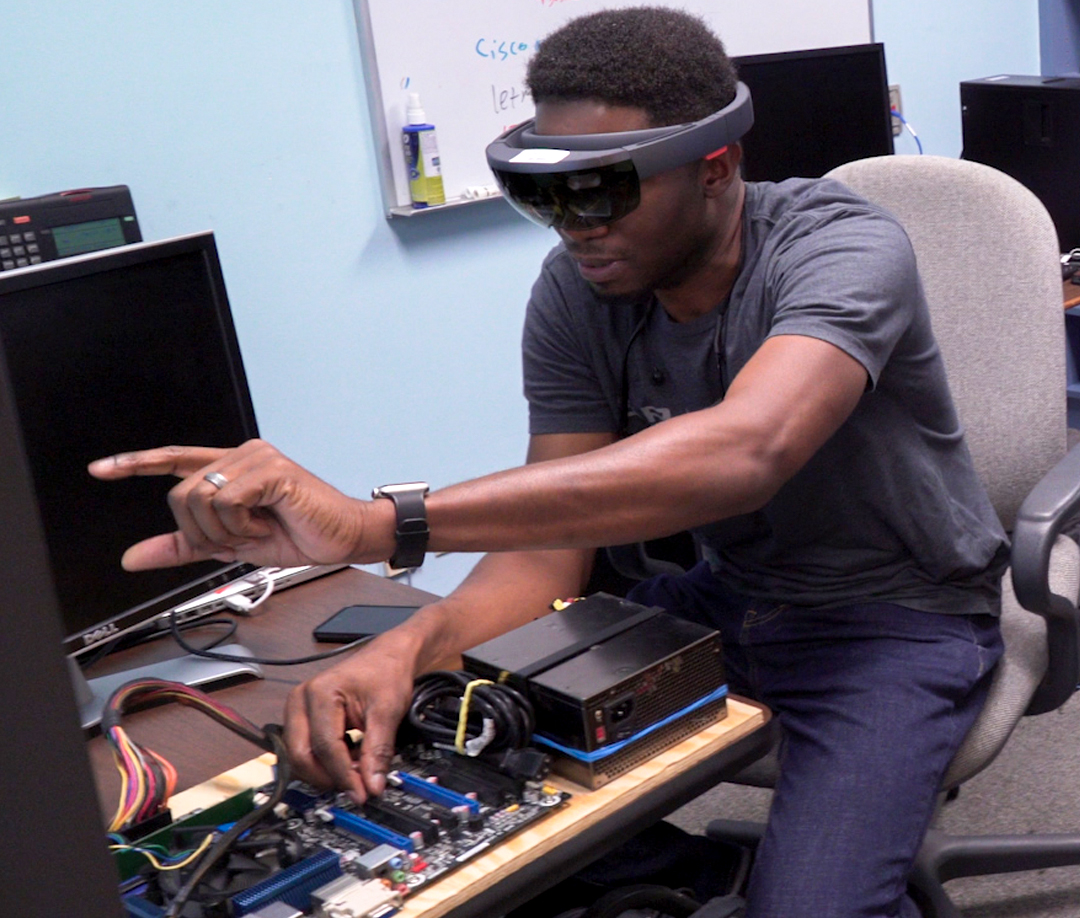
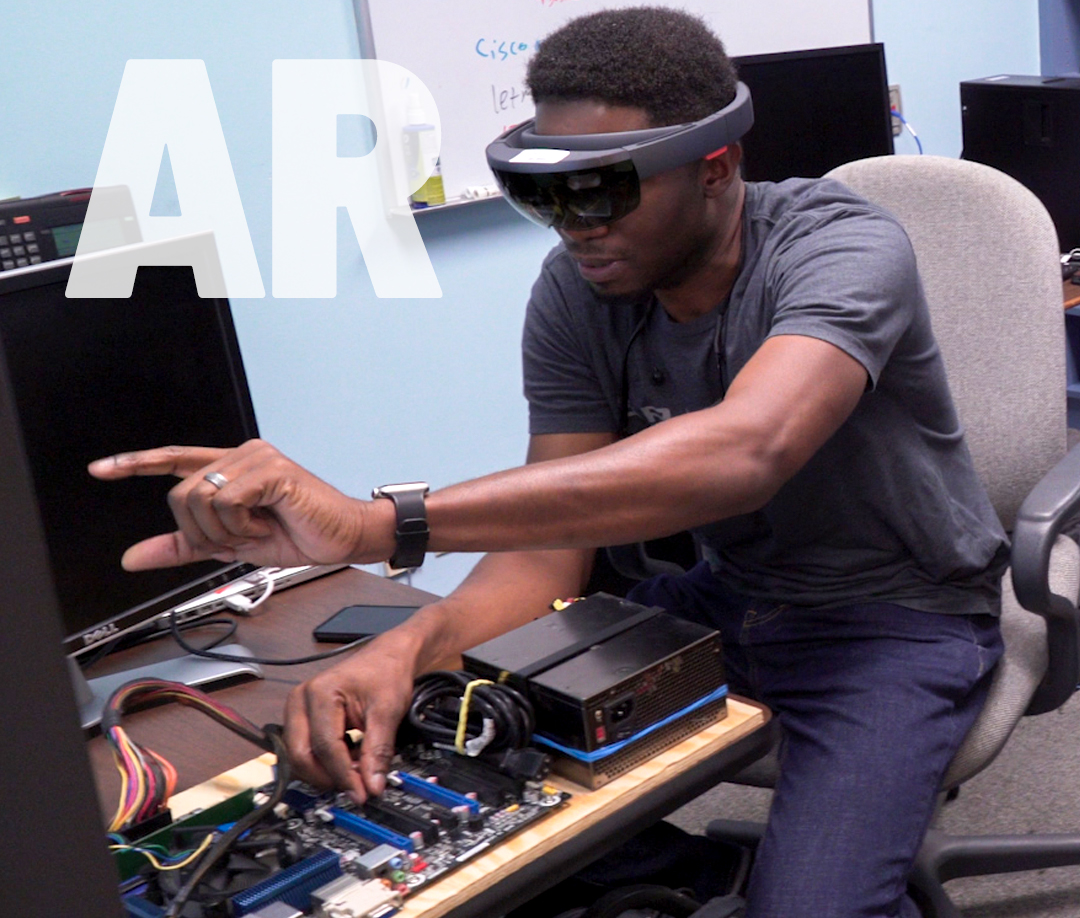
Updated AR/VR slider to include names on images etc

Changed region(s): [[0.0611, 0.061, 0.4278, 0.3355]]

diff --git a/new-complete/index.html b/new-complete/index.html
@@ -221,8 +221,7 @@
                       <div class="back">
                         <p id="title">Dr. Chinghua Chuan</p>
                         <p>Advisor</p>
-                        <p> Received her Ph.D. in computer science from University of Southern
-California (Los Angeles, CA, USA) Viterbi School of Engineering.</p>
+                        <p> Received her Ph.D. in computer science from University of Southern California (Los Angeles, CA, USA) Viterbi School of Engineering.</p>
                         <a href="https://www.facebook.com/mmckie2" id="social">f</a>
                         <a href="https://twitter.com/m_mckie123" id="social">t</a>
                         <a href="https://www.linkedin.com/in/morgan-mckie-06aa0145" id="social">in</a>
@@ -246,7 +245,7 @@ California (Los Angeles, CA, USA) Viterbi School of Engineering.</p>
                       <div class="col-md-6"><img class="img-thumbnail" src="assets/img/i_whatIsAR.jpg"></div>
                       <div class="col-md-6">
                           <div class="getting-started-info">
-                              <p>The team is using a headset known as the Microsoft Hololens. Just like Iron Man's heads up display (HUD), when the user puts on the headset to play a game or conduct a spacewalk, the lens overlays graphics onto the real world space. AR technologies can be used by anything from iPads and other mobile devices to specialized gear like the Hololens our team is working with.</p>
+                              <p>The team is using a headset known as the <strong>Microsoft Hololens</strong>. Just like Iron Man's heads up display (HUD), when the user puts on the headset to play a game or conduct a spacewalk, the lens overlays graphics onto the real world space. AR technologies can be used by anything from iPads and other mobile devices to specialized gear like the Hololens our team is working with.</p>
                           </div>
                       </div>
                   </div>
@@ -255,7 +254,7 @@ California (Los Angeles, CA, USA) Viterbi School of Engineering.</p>
           <section class="clean-block features">
               <div class="container">
                   <div class="block-heading">
-                      <h2 class="text-info">AR VS VR</h2>
+                      <h2 class="text-info">AR vs VR</h2>
                       <div class="row align-items-center">
                           <div class="col-md-6">
                               <p><strong><em>Virtual reality (VR)</em></strong> requires the headset to cover the entire periphery of your vision. This is what makes VR so popular with gaming, as you are completely immersed in the world of the device while you are wearing it.</p>
@@ -265,12 +264,12 @@ California (Los Angeles, CA, USA) Viterbi School of Engineering.</p>
                             <section class="clean-block slider dark">
                                 <div class="container">
                                     <div class="block-heading">
-                                        <p>Move the slider to see the difference between AR and VR</p>
+                                        <p>Check out the difference between AR and VR below</p>
                                     </div>
                                     <div class="carousel slide" data-ride="carousel" id="carousel-1">
                                         <div class="carousel-inner" role="listbox">
-                                            <div class="carousel-item active"><img class="w-100 d-block" src="assets/img/i_ARVR_VR01.jpg" alt="Slide Image"></div>
-                                            <div class="carousel-item"><img class="w-100 d-block" src="assets/img/i_ARVR_AR01.jpg" alt="AR Technology"></div>
+                                            <div class="carousel-item active"><img class="w-100 d-block" src="assets/img/i_ARVR_AR01.jpg" alt="Slide Image"></div>
+                                            <div class="carousel-item"><img class="w-100 d-block" src="assets/img/i_ARVR_VR01.jpg" alt="AR Technology"></div>
                                         </div>
                                         <div><a class="carousel-control-prev" href="#carousel-1" role="button" data-slide="prev"><span class="carousel-control-prev-icon"></span><span class="sr-only">Previous</span></a><a class="carousel-control-next" href="#carousel-1" role="button"
                                                 data-slide="next"><span class="carousel-control-next-icon"></span><span class="sr-only">Next</span></a></div>
